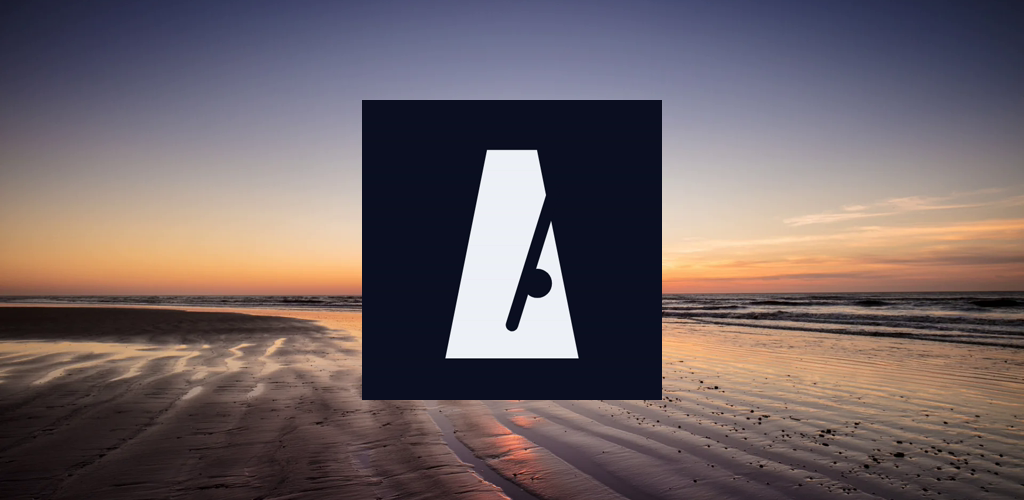
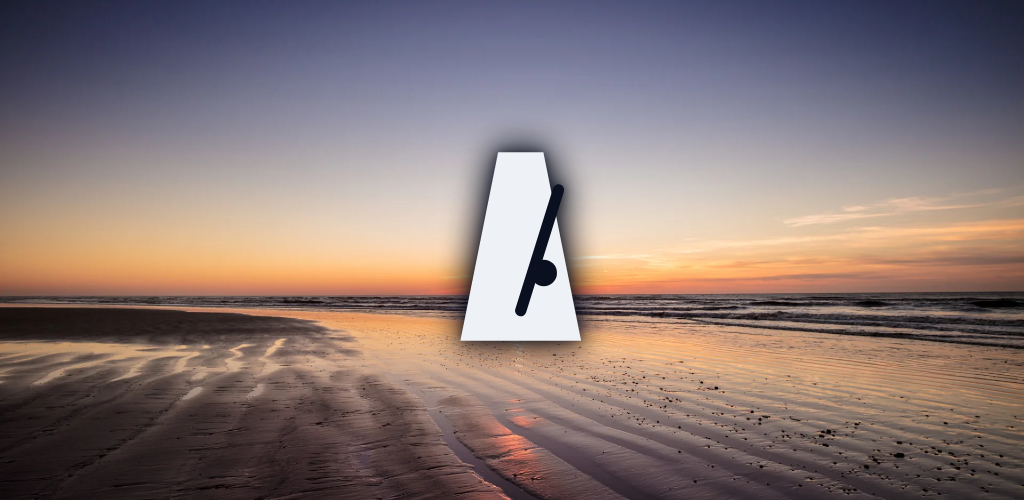
v1.1.6: [complete] use approved feature graphic
Replace the feature graphic with the user-approved version: metronome glyph on the beach photo with a darker glow.

Plan-Step: v1.1/5

diff --git a/docs/play/listing.md b/docs/play/listing.md
@@ -10,7 +10,7 @@ Source: `fastlane/metadata/android/en-US/`. Limits checked 2026-11-08 against th
 | Short description | 80 characters | 67 |
 | Full description | 4,000 characters | 961 |
 | Icon | 32-bit PNG with alpha, 512 × 512, up to 1,024 KB | 512 × 512 RGBA PNG, 8 KB (re-saved in v1.1.5; same pixels, fully opaque) |
-| Feature graphic | 1024 × 500, JPEG or 24-bit PNG, no alpha | New: `images/featureGraphic.png`, 1024 × 500 RGB PNG, from `calm-bliss.webp` (CC0) with the app icon. Listed in `ATTRIBUTION.md`. Needs user approval. |
+| Feature graphic | 1024 × 500, JPEG or 24-bit PNG, no alpha | New: `images/featureGraphic.png`, 1024 × 500 RGB PNG, from `calm-bliss.webp` (CC0) with the white metronome glyph and a dark glow, no square (approved). Listed in `ATTRIBUTION.md`. |
 | Screenshot count | 2 to 8 | 6 |
 | Screenshot format | JPEG or 24-bit PNG, no alpha, 320 to 3,840 px, long side at most 2× short side | 1080 × 2160 RGB PNG (2:1), no status bar |
 
@@ -18,7 +18,7 @@ Screenshots (v1.1.5, taken with Playwright at 432 × 864, scale 2.5): 1 home, 2 
 
 ## Needs changing
 
-Nothing open. A feature graphic without the dark square is waiting for user approval.
+Nothing open.
 
 ## Text
 

diff --git a/ATTRIBUTION.md b/ATTRIBUTION.md
@@ -50,4 +50,4 @@ Changes to the images: every image was converted from JPEG to WebP (about 130–
 
 | File | Made from | License |
 |---|---|---|
-| `fastlane/metadata/android/en-US/images/featureGraphic.png` | `assets/images/calm-bliss.webp` (CC0, see Images) with the app icon (project's own) on top | [CC0](http://creativecommons.org/publicdomain/zero/1.0/deed.en) source; the project's license for the icon |
+| `fastlane/metadata/android/en-US/images/featureGraphic.png` | `assets/images/calm-bliss.webp` (CC0, see Images) with the app icon's metronome glyph (project's own) on top | [CC0](http://creativecommons.org/publicdomain/zero/1.0/deed.en) source; the project's license for the icon |

diff --git a/RESUME-HERE.md b/RESUME-HERE.md
@@ -3,7 +3,7 @@
 Roadmap: [`docs/design/0001-roadmap.md`](docs/design/0001-roadmap.md) · Behavior spec: [`docs/design/0002-app-behavior.md`](docs/design/0002-app-behavior.md)
 
 ## Current version
-v1.1.5 — new 1080 × 2160 screenshots (6) and RGBA icon for Play. v1.1 steps 3–5 done on `worktree-v1.1-group-a`. Next: user approves the new feature graphic; step 1 (Play account) and step 2 (signing) with the user.
+v1.1.6 — approved feature graphic (metronome on the beach, no square). v1.1 steps 3–5 done on `worktree-v1.1-group-a`. Next: merge to main after user approval; step 1 (Play account) and step 2 (signing) with the user.
 
 ## v1.1 plan of action
 
